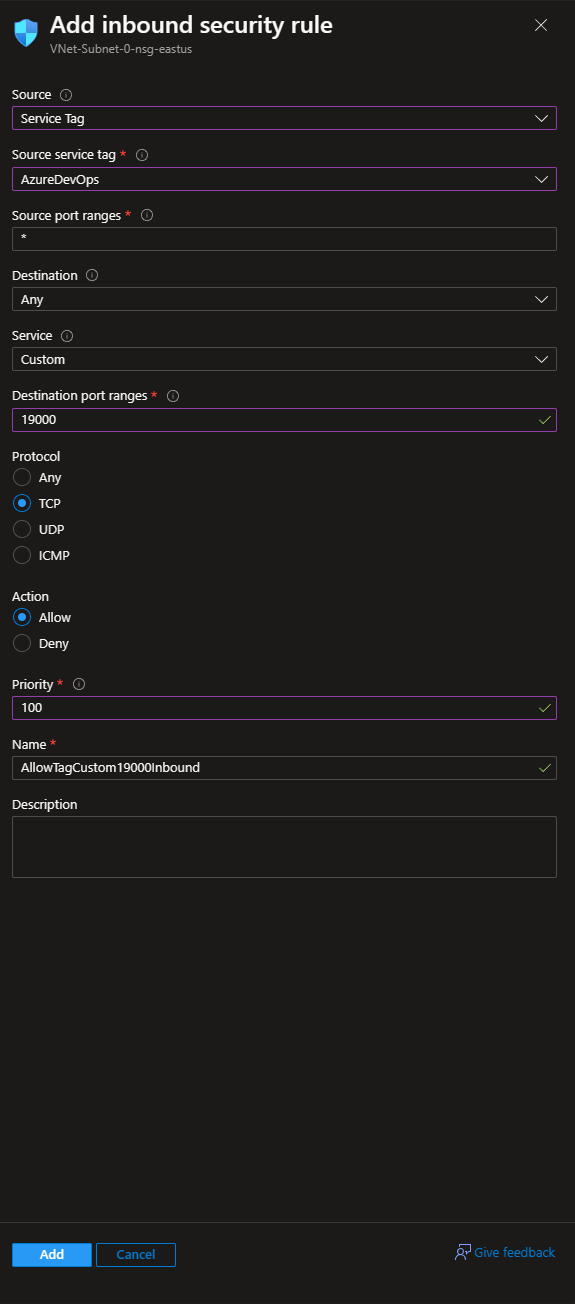
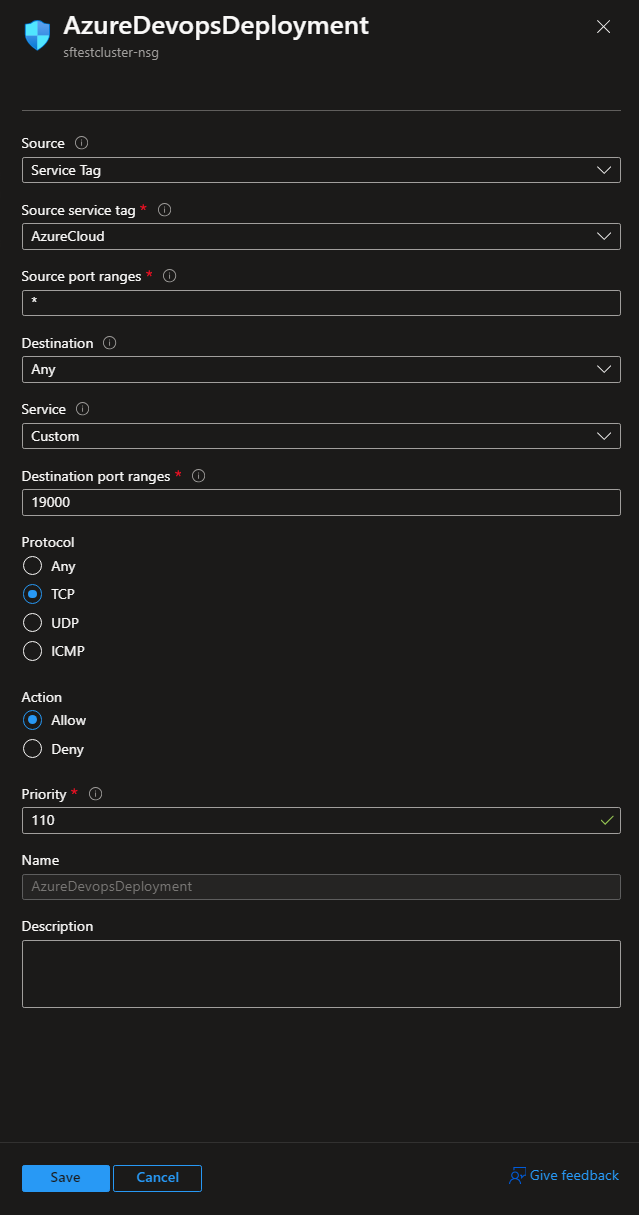
add 'AzureCloud' nsg rule

diff --git a/Deployment/how-to-configure-azure-devops-for-service-fabric-cluster.md b/Deployment/how-to-configure-azure-devops-for-service-fabric-cluster.md
@@ -35,7 +35,23 @@ For Service Fabric service connection configurations, it is recommended to use E
 
 Azure Devops has a [Service Tag](https://learn.microsoft.com/azure/virtual-network/service-tags-overview) name of 'AzureDevops' that can be used when configuring a Network Security Group (NSG) for access to cluster. If using a self-hosted ADO agent, the agent IP address will need to be added to the NSG inbound rule for the cluster endpoint port. If using a ADO agent pool, the agent pool IP address will need to be added to the NSG inbound rule for the cluster endpoint port.
 
+- Source: Service Tag
+- Source service tag: AzureCloud
+- Source port ranges: *
+- Destination: Any
+- Service: Custom
+- Destination port ranges: 19000
+- Protocol: TCP
+- Action: Allow
+- Priority: 110
+- Name: AzureDevopsDeployment
+
 ![nsg inbound rule](/media/how-to-configure-azure-devops-for-service-fabric-cluster/ado-nsg-service-tag.png)
+
+> **Important**
+> If using a Service Tag for Azure Devops access to cluster, ensure the NSG inbound rule is using service tag 'AzureCloud' (not 'AzureDevops') and is at minimum configured for the cluster gateway endpoint port. The default port is 19000.
+
+If not using a Service Tag for Azure Devops access to cluster, the ADO agent IP address will need to be added to the NSG inbound rule for the cluster endpoint port. If using a ADO agent pool, the agent pool IP address will need to be added to the NSG inbound rule for the cluster endpoint port. A list of ip ranges being used by ADO can be found [here](https://docs.microsoft.com/azure/devops/organizations/security/allow-list-ip-url?view=azure-devops#ip-ranges).
 
 ## Entra Cluster Configuration
 

diff --git a/Deployment/how-to-configure-azure-devops-for-service-fabric-arm-deployments.md b/Deployment/how-to-configure-azure-devops-for-service-fabric-arm-deployments.md
@@ -10,6 +10,10 @@ For Service Fabric Managed Cluster deployments not using ARM templates, see [How
 
 - Existing Azure Devops project.
 
+- For Service Fabric application deployments, an accessible URL location for the application package. This can be a public URL or a URL that is accessible from the pipeline.
+
+- Access to Azure Resource Manager (ARM) endpoint from Azure Devops.
+
 <!-- todo -->
 
 ## Process
@@ -45,8 +49,6 @@ For Service Fabric Managed Cluster templates, similar to Service Fabric Cluster 
 - Existing cluster: To create a Service Fabric managed cluster using an ARM template, see [How to Export Service Fabric Managed Cluster Configuration](../how-to-export-service-fabric-managed-cluster-configuration.md).
 
 - Learn Documentation:
-
-- Azure Samples Service Fabric Cluster Templates:
 
 - Azure Samples Service Fabric Cluster Templates: https://github.com/Azure-Samples/service-fabric-cluster-templates
 
